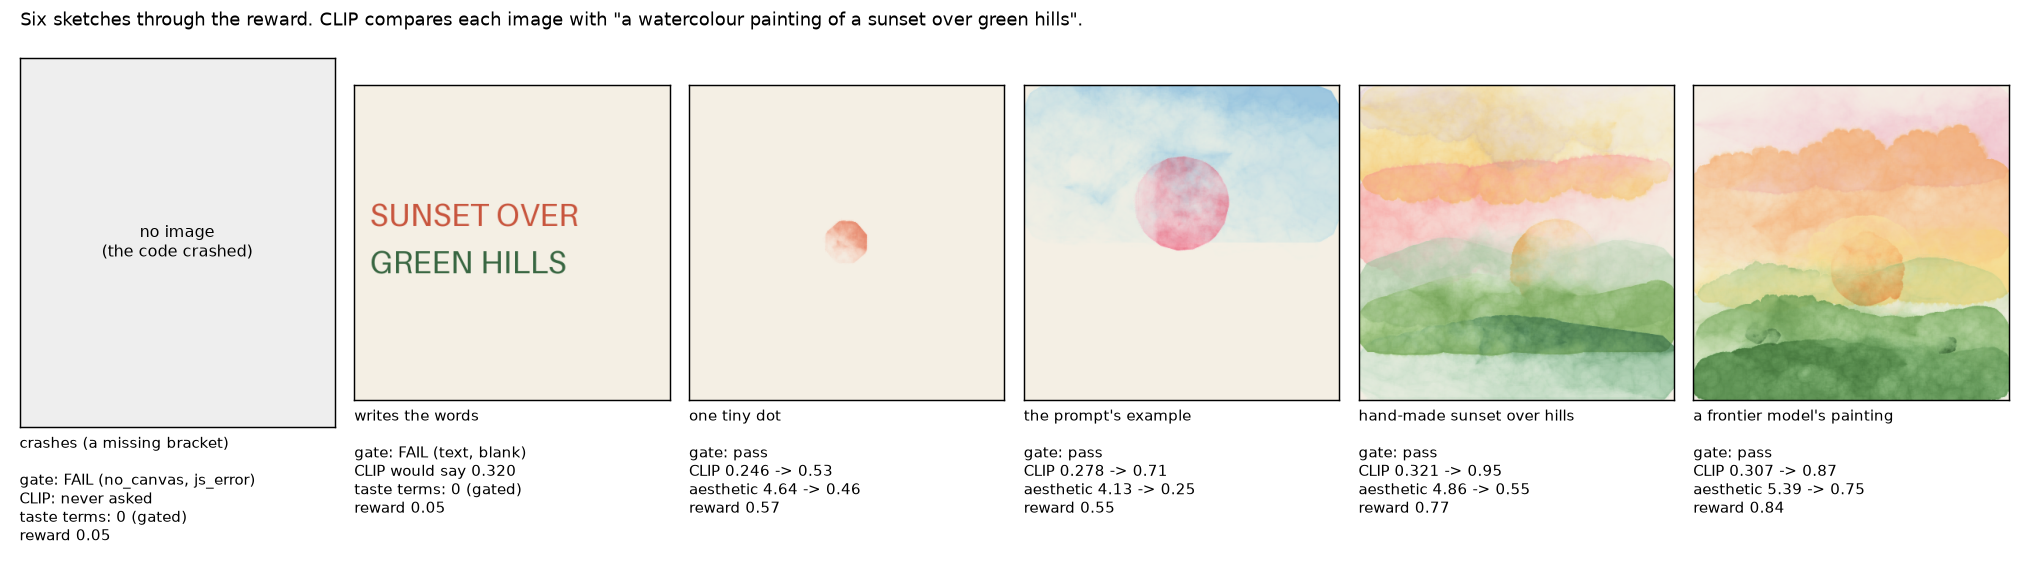
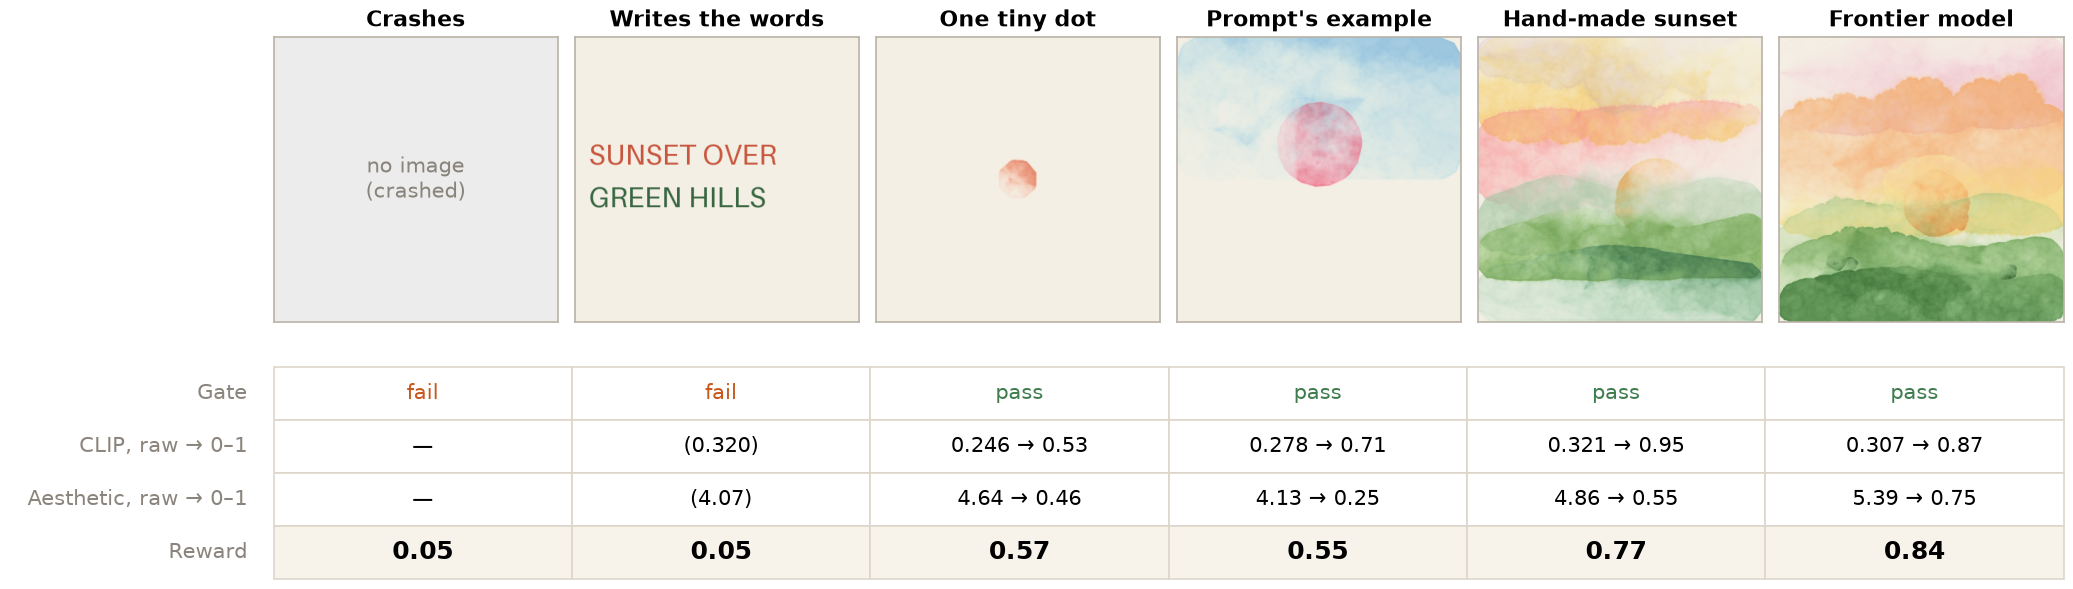
Pigment Gym: Figure 2 as pictures over a score table; caption explains the raw → 0–1 arrow

diff --git a/experiments/pigment-gym/report/index.html b/experiments/pigment-gym/report/index.html
@@ -182,8 +182,8 @@
   <math display="block"><mi>r</mi><mo>=</mo><mn>0.10</mn><mo>·</mo><mi>g</mi><mo>+</mo><mn>0.05</mn><mo>·</mo><mi>ℓ</mi><mo>+</mo><mi>g</mi><mo>·</mo><mo>(</mo><mn>0.40</mn><mo>·</mo><mi>c</mi><mo>+</mo><mn>0.45</mn><mo>·</mo><mi>a</mi><mo>)</mo></math>
   <details class="fold symbols"><summary>What each symbol means</summary><dl class="where"><dt>where</dt><dd><math><mi>r</mi></math>&#8194;the reward, from 0 to 1</dd><dd><math><mi>g</mi></math>&#8194;the gate: 1 if the sketch passes, 0 if not, so a failing sketch can only earn the first two terms</dd><dd><math><mi>ℓ</mi></math>&#8194;length: 1 for 15 to 90 non-blank lines of code, less for shorter or longer</dd><dd><math><mi>c</mi></math>&#8194;the CLIP match with the caption, stretched to 0–1</dd><dd><math><mi>a</mi></math>&#8194;the aesthetic score, stretched to 0–1</dd></dl></details>
   <figure class="plot">
-    <img src="figures/scoring_walkthrough.png" alt="Six panels with their scores. A crash: no image, reward 0.05. The words SUNSET OVER GREEN HILLS on paper: gate fails, CLIP would say 0.320, reward 0.05. One tiny dot: CLIP 0.246, aesthetic 4.64, reward 0.57. The prompt's example, a red disc on a blue wash: CLIP 0.278, aesthetic 4.13, reward 0.55. A hand-made sunset over hills: CLIP 0.321, aesthetic 4.86, reward 0.77. A frontier model's painting: CLIP 0.307, aesthetic 5.39, reward 0.84." width="2028" height="572" loading="lazy">
-    <figcaption><span class="label">Figure 2.</span>Six sketches through the reward. Arrows show each raw score stretched to 0–1. The words panel is the text drawn on paper and scored by CLIP directly (the brush canvas cannot draw text); the gate gives it 0.05. Note the tiny dot outscoring the prompt's example, 0.57 against 0.55: the aesthetic predictor likes empty paper.</figcaption>
+    <img src="figures/scoring_walkthrough.png" alt="Six panels with their scores. A crash: no image, reward 0.05. The words SUNSET OVER GREEN HILLS on paper: gate fails, CLIP would say 0.320, reward 0.05. One tiny dot: CLIP 0.246, aesthetic 4.64, reward 0.57. The prompt's example, a red disc on a blue wash: CLIP 0.278, aesthetic 4.13, reward 0.55. A hand-made sunset over hills: CLIP 0.321, aesthetic 4.86, reward 0.77. A frontier model's painting: CLIP 0.307, aesthetic 5.39, reward 0.84." width="2073" height="589" loading="lazy">
+    <figcaption><span class="label">Figure 2.</span>Six sketches through the reward. In the CLIP and aesthetic rows, the first number is the scorer's raw output and the number after the arrow is the same score stretched to 0–1, using the range measured on the reference sketches; the reward adds up the 0–1 numbers. Numbers in brackets are what the scorer would have said about a sketch the gate rejects. The words panel is the text drawn on paper and scored by CLIP directly (the brush canvas cannot draw text); the gate gives it 0.05. Note the tiny dot outscoring the prompt's example, 0.57 against 0.55: the aesthetic predictor likes empty paper.</figcaption>
   </figure>
   <p><strong>The reward was checked before any training.</strong> On 12 hand-written reference sketches with a known quality order, from a meadow at sunset down to bare p5 shapes, it agrees with that order at Spearman 0.93; on the 8 that pass the gate, where only taste is left, at 0.81. The aesthetic term alone manages 0.38 on those 8.</p>
 

diff --git a/experiments/pigment-gym/5_scoring_walkthrough.py b/experiments/pigment-gym/5_scoring_walkthrough.py
@@ -106,33 +106,61 @@ for (name, _), row in zip(cases, rows, strict=False):
     )
 RESULT.write_text(json.dumps(summary, indent=1))
 
-fig, axes = plt.subplots(1, len(cases), figsize=(2.6 * len(cases), 4.4))
-for ax, (name, _), image, item in zip(axes, cases, images, summary, strict=False):
+# The figure: the six pictures in a row, and a table of their scores underneath.
+GREY, GREEN, EMBER, PAPER, RULE = "#8A847C", "#3F7D4E", "#C9561C", "#F7F3EA", "#DDD6CA"
+short = ["Crashes", "Writes the words", "One tiny dot", "Prompt's example", "Hand-made sunset", "Frontier model"]
+fig = plt.figure(figsize=(10, 3.1))
+grid = fig.add_gridspec(2, len(cases), height_ratios=[1, 0.62], hspace=0.06, wspace=0.06, left=0.1, right=0.995,
+                        top=0.93, bottom=0.01)  # fmt: skip
+for i, (image, item) in enumerate(zip(images, summary, strict=False)):
+    ax = fig.add_subplot(grid[0, i])
     if image is not None and item["clip_raw"] is not None:
         ax.imshow(image)
     else:
-        ax.set_facecolor("#eeeeee")
-        ax.text(0.5, 0.5, "no image\n(the code crashed)", ha="center", va="center", transform=ax.transAxes, fontsize=9)
+        ax.imshow(Image.new("RGB", (400, 400), "#ececec"))
+        note = "no image\n(crashed)"
+        ax.text(0.5, 0.5, note, ha="center", va="center", transform=ax.transAxes, fontsize=7.5, color=GREY)
     ax.set_xticks([])
     ax.set_yticks([])
-    lines = [name, ""]
-    if item["gate"]:
-        lines.append("gate: pass")
-        lines.append(f"CLIP {item['clip_raw']:.3f} -> {item['clip']:.2f}")
-        lines.append(f"aesthetic {item['aesthetic_raw']:.2f} -> {item['aesthetic']:.2f}")
-    else:
-        reason = ", ".join(v.split(":")[0] for v in item["violations"])
-        lines.append(f"gate: FAIL ({reason})")
-        lines.append(f"CLIP would say {item['clip_raw']:.3f}" if item["clip_raw"] is not None else "CLIP: never asked")
-        lines.append("taste terms: 0 (gated)")
-    lines.append(f"reward {item['reward']:.2f}")
-    ax.set_xlabel("\n".join(lines), fontsize=8.5, loc="left")
-fig.suptitle(
-    f'Six sketches through the reward. CLIP compares each image with "{text}".', fontsize=10, x=0.01, ha="left"
-)
-fig.tight_layout()
+    for spine in ax.spines.values():
+        spine.set_color("#B9B2A6")
+        spine.set_linewidth(0.6)
+    ax.set_title(short[i], fontsize=8, fontweight="bold", pad=4)
+
+
+def raw_to_scaled(item, key, fmt):
+    """'raw -> 0-1' for passing sketches; '(raw)' for gated ones, what the scorer would have said; '-' if none."""
+    raw = item[f"{key}_raw"]
+    if raw is None:
+        return "—"
+    return f"{fmt.format(raw)} → {item[key]:.2f}" if item["gate"] else f"({fmt.format(raw)})"
+
+
+table = fig.add_subplot(grid[1, :])
+table.axis("off")
+cells = [
+    ["pass" if item["gate"] else "fail" for item in summary],
+    [raw_to_scaled(item, "clip", "{:.3f}") for item in summary],
+    [raw_to_scaled(item, "aesthetic", "{:.2f}") for item in summary],
+    [f"{item['reward']:.2f}" for item in summary],
+]
+labels = ["Gate", "CLIP, raw → 0–1", "Aesthetic, raw → 0–1", "Reward"]
+drawn = table.table(cellText=cells, rowLabels=labels, cellLoc="center", bbox=[0, 0, 1, 1])
+drawn.auto_set_font_size(False)
+drawn.set_fontsize(7.5)
+for (r, c), cell in drawn.get_celld().items():
+    cell.set_edgecolor(RULE)
+    cell.set_linewidth(0.6)
+    if c == -1:
+        cell.set_text_props(color=GREY, ha="right")
+        cell.set_edgecolor("white")
+    elif r == 0:
+        cell.set_text_props(color=GREEN if summary[c]["gate"] else EMBER)
+    elif r == 3:
+        cell.set_text_props(fontweight="bold", fontsize=9)
+        cell.set_facecolor(PAPER)
 FIGURE.parent.mkdir(parents=True, exist_ok=True)
-fig.savefig(FIGURE, dpi=130)
+fig.savefig(FIGURE, dpi=200, bbox_inches="tight", pad_inches=0.05)
 print(f"\nsaved {FIGURE.name} and {RESULT.name}")
 
 print("\nSelf-checks:")
